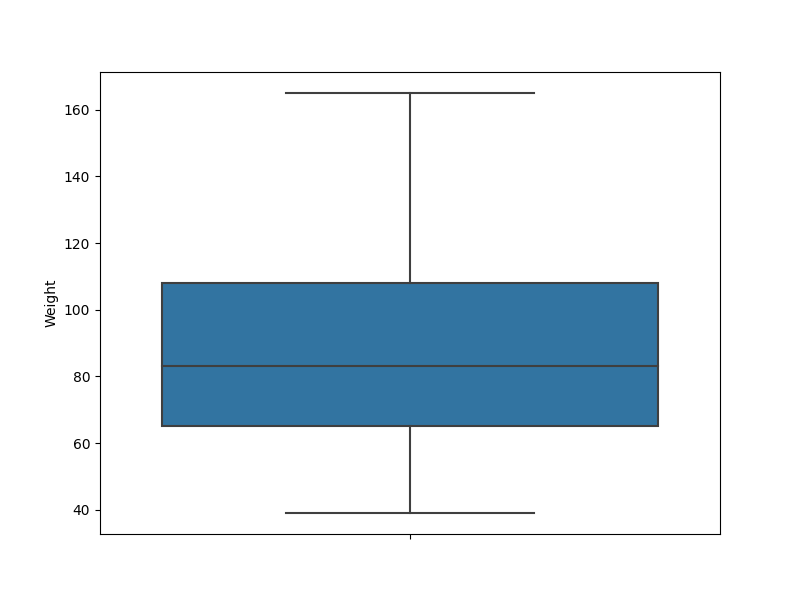
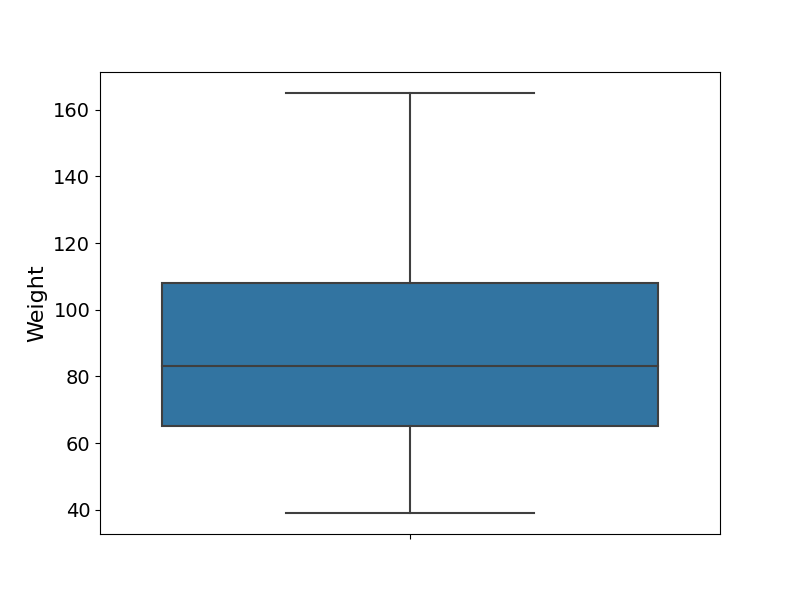
Modified Chart

diff --git a/Src/source.py b/Src/source.py
@@ -41,13 +41,16 @@ colors = ['red', 'blue', 'green', 'yellow', 'purple', 'grey', 'orange']
 
 filter = lambda type: data['NObeyesdad'] == type
 
-plt.figure(figsize=(20,16))    
+plt.figure(figsize=(18,7)) 
  
 for n in range(len(labels)):
     plt.scatter(data['Weight'][filter(labels[n])], data['FAF'][filter(labels[n])], color = colors[n], label = labels[n])
 
-plt.xlabel('Weight')
-plt.ylabel('FAF')
+plt.xticks(fontsize=14)
+plt.yticks(fontsize=14)
+plt.xlabel('Weight', fontsize=16)
+plt.ylabel('FAF', fontsize=16)
+plt.title('Body Mass Index ("NObeyesdad") plot with "Weight" and Frequency of Physical Activity ("FAF")', fontsize=19)
 plt.legend()
 
 print(data.info())
@@ -153,10 +156,14 @@ print(data_iqr)
 
 plt.figure(figsize=(8,6))
 sns.boxplot(y = "Weight", data = data_iqr)
+plt.yticks(fontsize=14)
+plt.ylabel('Weight', fontsize=16)
 plt.show()
 
 plt.figure(figsize=(8,6))
 sns.boxplot(y = "Age", data = data_iqr)
+plt.yticks(fontsize=14)
+plt.ylabel('Age', fontsize=16)
 plt.show()
 
 # Regression
@@ -185,8 +192,11 @@ plt.plot(
     linewidth = 3,
     linestyle = ':')
 
-plt.xlabel('Weight')
-plt.ylabel('NObeyesdad')
+plt.xticks(fontsize=14)
+plt.yticks(fontsize=14)
+plt.xlabel('Weight', fontsize=16)
+plt.ylabel('NObeyesdad', fontsize=16)
+plt.title('Linear Regression Model', fontsize=19)
 plt.show()
 
 Xols = data_iqr['Weight']
@@ -243,9 +253,9 @@ for i in range(1,11):
     kmeans.fit(Xc)
     wcss.append(kmeans.inertia_)
 plt.plot(range(1,11), wcss)
-plt.xlabel('Numbers of Clusters')
-plt.ylabel('WCSS')
-plt.title('Elbow Method')
+plt.xlabel('Numbers of Clusters', fontsize=16)
+plt.ylabel('WCSS', fontsize=16)
+plt.title('Elbow Method', fontsize=19)
 plt.show()
 
 k = 7
@@ -255,7 +265,7 @@ print(pred_k)
 
 sns.scatterplot(data = data_encoder, x = 'NObeyesdad', y = 'FAF', hue = pred_k, palette = "deep", s = 100)
 plt.legend(bbox_to_anchor=(1.01, 1),borderaxespad=0)
-plt.title("KMeans")
+plt.title("KMeans", fontsize=19)
 plt.show()
 
 data_kmeans = data.copy()
@@ -275,9 +285,9 @@ print('The Silhouette_Score of K-means is: {}'.format(kmeans_metrics))
 Xc = data_encoder.iloc[:, [12,16]].values
 
 hc = sch.dendrogram(sch.linkage(Xc, method = 'ward'))
-plt.title('Dendrogram')
-plt.xlabel('Sample')
-plt.ylabel('Euclidean Distances')
+plt.title('Dendrogram', fontsize=19)
+plt.xlabel('Sample', fontsize=16)
+plt.ylabel('Euclidean Distances', fontsize=16)
 plt.show()
 
 hc = AgglomerativeClustering(n_clusters = 2, affinity = 'euclidean', linkage = 'ward' )
@@ -285,7 +295,7 @@ pred_h = hc.fit_predict(Xc)
 
 sns.scatterplot(data = data_encoder, x = 'NObeyesdad', y = 'FAF', hue = pred_h, palette = "deep", s = 100)
 plt.legend(bbox_to_anchor=(1.01, 1),borderaxespad=0)
-plt.title("Hierarchical")
+plt.title("Hierarchical", fontsize=19)
 plt.show()
 
 data_hc = data.copy()
@@ -313,7 +323,7 @@ sns.relplot(x = 'NObeyesdad', y = 'FAF', hue = pred_d, data = data_encoder, pale
 "forestgreen", "limegreen", "darkgreen", "slategrey", "lightsteelblue", "cornflowerblue", "rosybrown", "lightcoral", "indianred", "darkgoldenrod",
 "goldenrod", "cornsilk", "lightseagreen", "mediumturquoise", "darkslategray", "mediumpurple", "rebeccapurple", "blueviolet", "palevioletred", "crimson",
 "pink"], s = 100)
-plt.title("DBSCAN")
+plt.title("DBSCAN", fontsize=19)
 plt.show()
 
 data_d = data.copy()
@@ -336,7 +346,7 @@ ylor = data_iqr['NObeyesdad']
 
 # Separating training and test data
 
-X_train, X_test, y_train, y_test = train_test_split(Xlor,ylor,test_size = .3, random_state=1)
+X_train, X_test, y_train, y_test = train_test_split(Xlor,ylor,test_size = .3,random_state=1)
 
 # Logistic Regression Classifier
 
